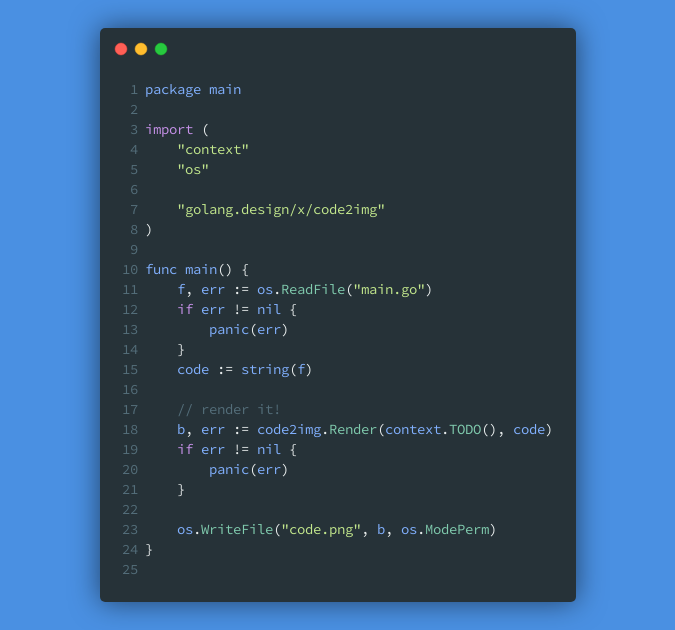
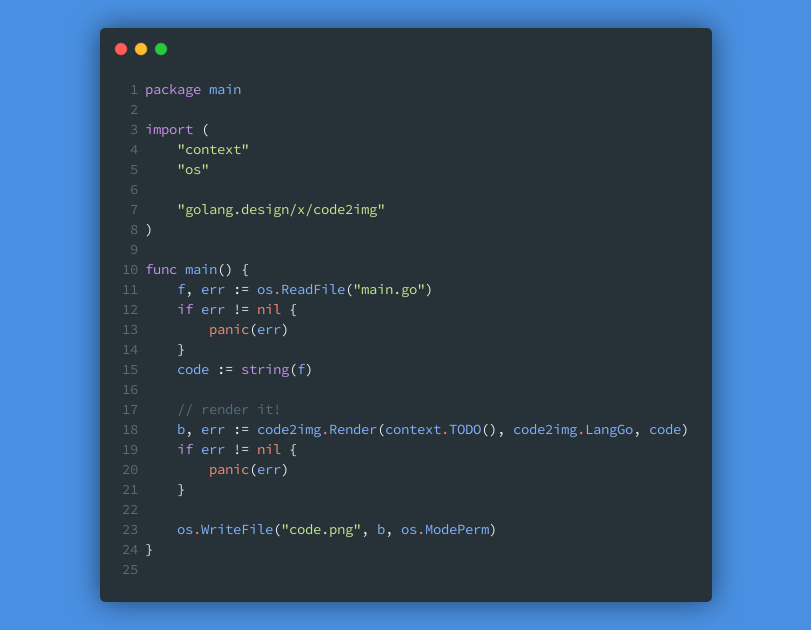
all: add language customization

diff --git a/code2img.go b/code2img.go
@@ -19,9 +19,19 @@ import (
 	"github.com/chromedp/chromedp"
 )
 
+// Lang is represents a language
+type Lang string
+
+// All kinds of languages
+const (
+	LangAuto Lang = "auto"
+	LangGo   Lang = "text/x-go"
+	LangDiff Lang = "text/x-diff"
+)
+
 // Render renders the given code string and returns a binary buffer
 // that contains a carbon-now based image.
-func Render(ctx context.Context, code string) ([]byte, error) {
+func Render(ctx context.Context, lang Lang, code string) ([]byte, error) {
 	// https://carbon.now.sh/?
 	// bg=rgba(74%2C144%2C226%2C1)&
 	// t=material&
@@ -43,11 +53,15 @@ func Render(ctx context.Context, code string) ([]byte, error) {
 	// es=2x&
 	// wm=false&
 	// code=func%2520main()
+	if _, ok := supportedLang[lang]; !ok {
+		lang = LangAuto
+	}
+
 	var carbonOptions = map[string]string{
 		"bg":     "rgba(74,144,226,1)", // backgroundColor
 		"t":      "material",           // theme
 		"wt":     "none",               // windowTheme
-		"l":      "auto",               // language
+		"l":      string(lang),         // language
 		"ds":     "true",               // dropShadow
 		"dsyoff": "0px",                // dropShadowOffsetY
 		"dsblur": "29px",               // dropShadowBlurRadius
@@ -145,4 +159,12 @@ func screenshot(sel interface{}, picbuf *[]byte, opts ...chromedp.QueryOption) c
 		*picbuf = buf
 		return nil
 	}, append(opts, chromedp.NodeVisible)...)
+}
+
+// if we need more languages, see:
+// https://github.com/carbon-app/carbon/blob/c2357e63efb60330f1c9ef84be4df2e8e94f661c/lib/constants.js
+var supportedLang = map[Lang]int{
+	LangAuto: 0,
+	LangGo:   0,
+	LangDiff: 0,
 }

diff --git a/code2img_test.go b/code2img_test.go
@@ -22,7 +22,7 @@ func TestRender(t *testing.T) {
 	ctx, cancel := context.WithTimeout(context.Background(), time.Second*10)
 	defer cancel()
 
-	got, err := code2img.Render(ctx, `import "golang.design/x/code2img"`)
+	got, err := code2img.Render(ctx, code2img.LangGo, `import "golang.design/x/code2img"`)
 	if err != nil {
 		t.Fatalf("render failed: %v", err)
 	}

diff --git a/cmd/code2img/main.go b/cmd/code2img/main.go
@@ -47,7 +47,7 @@ func main() {
 		ctx, cancel := context.WithTimeout(context.Background(), time.Second*10)
 		defer cancel()
 
-		buf, err := code2img.Render(ctx, b.Code)
+		buf, err := code2img.Render(ctx, code2img.LangGo, b.Code)
 		if err != nil {
 			c.String(http.StatusBadRequest, fmt.Sprintf("Error: %s", err))
 			return

diff --git a/example/main.go b/example/main.go
@@ -15,7 +15,7 @@ func main() {
 	code := string(f)
 
 	// render it!
-	b, err := code2img.Render(context.TODO(), code)
+	b, err := code2img.Render(context.TODO(), code2img.LangGo, code)
 	if err != nil {
 		panic(err)
 	}

diff --git a/README.md b/README.md
@@ -1,6 +1,6 @@
 # code2img [![PkgGoDev](https://pkg.go.dev/badge/golang.design/x/code2img)](https://pkg.go.dev/golang.design/x/code2img) ![](https://changkun.de/urlstat?mode=github&repo=golang-design/code2img)
 
-a carbon service wrapper for Go users
+A carbon-now wrapper for Go users and supports for iOS Shortcut
 
 ```go
 import "golang.design/x/code2img"
